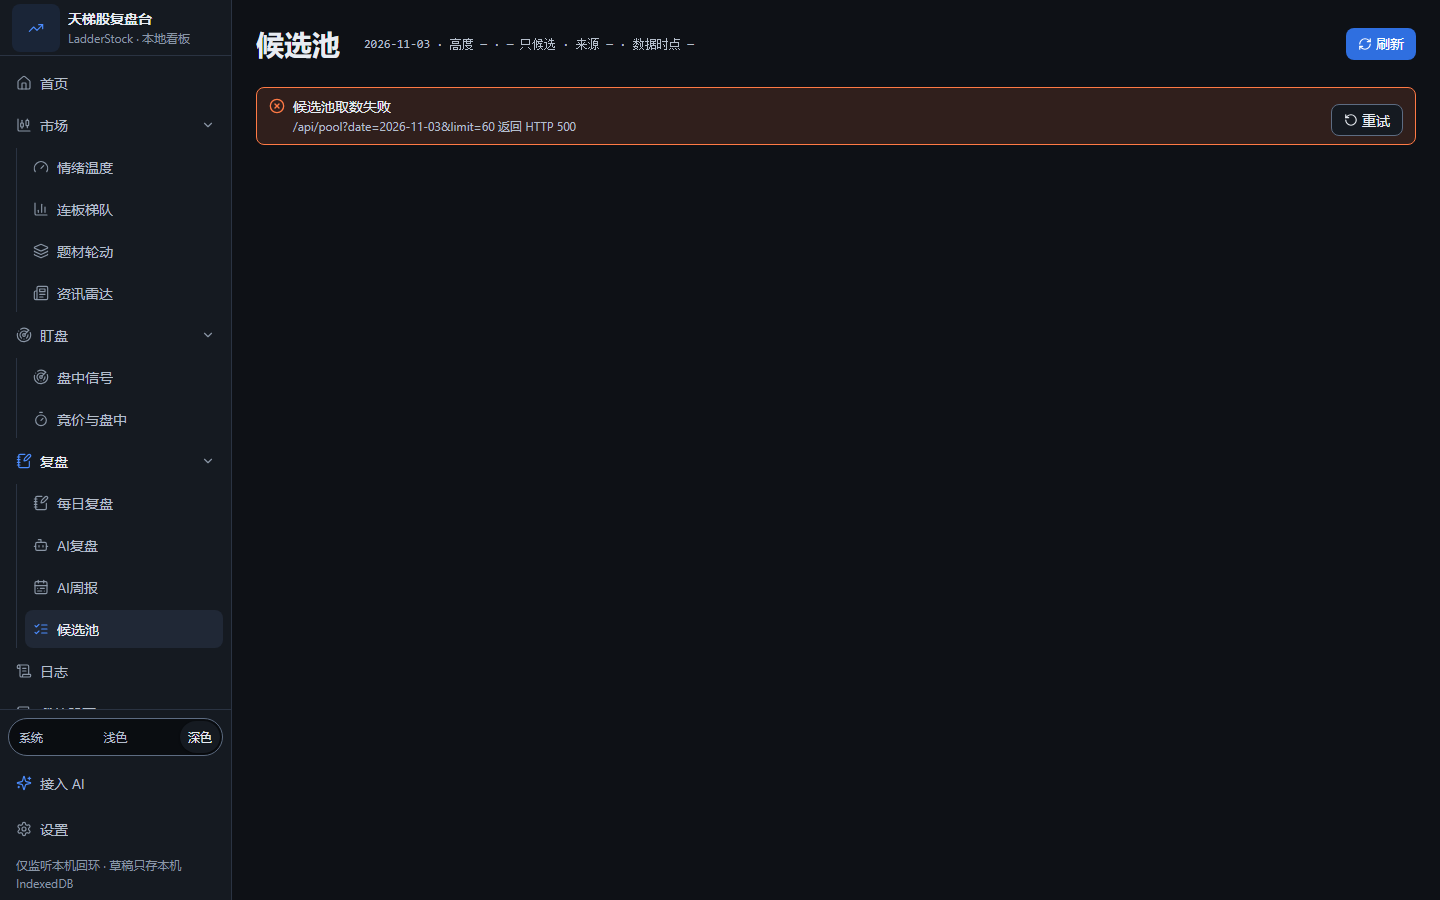
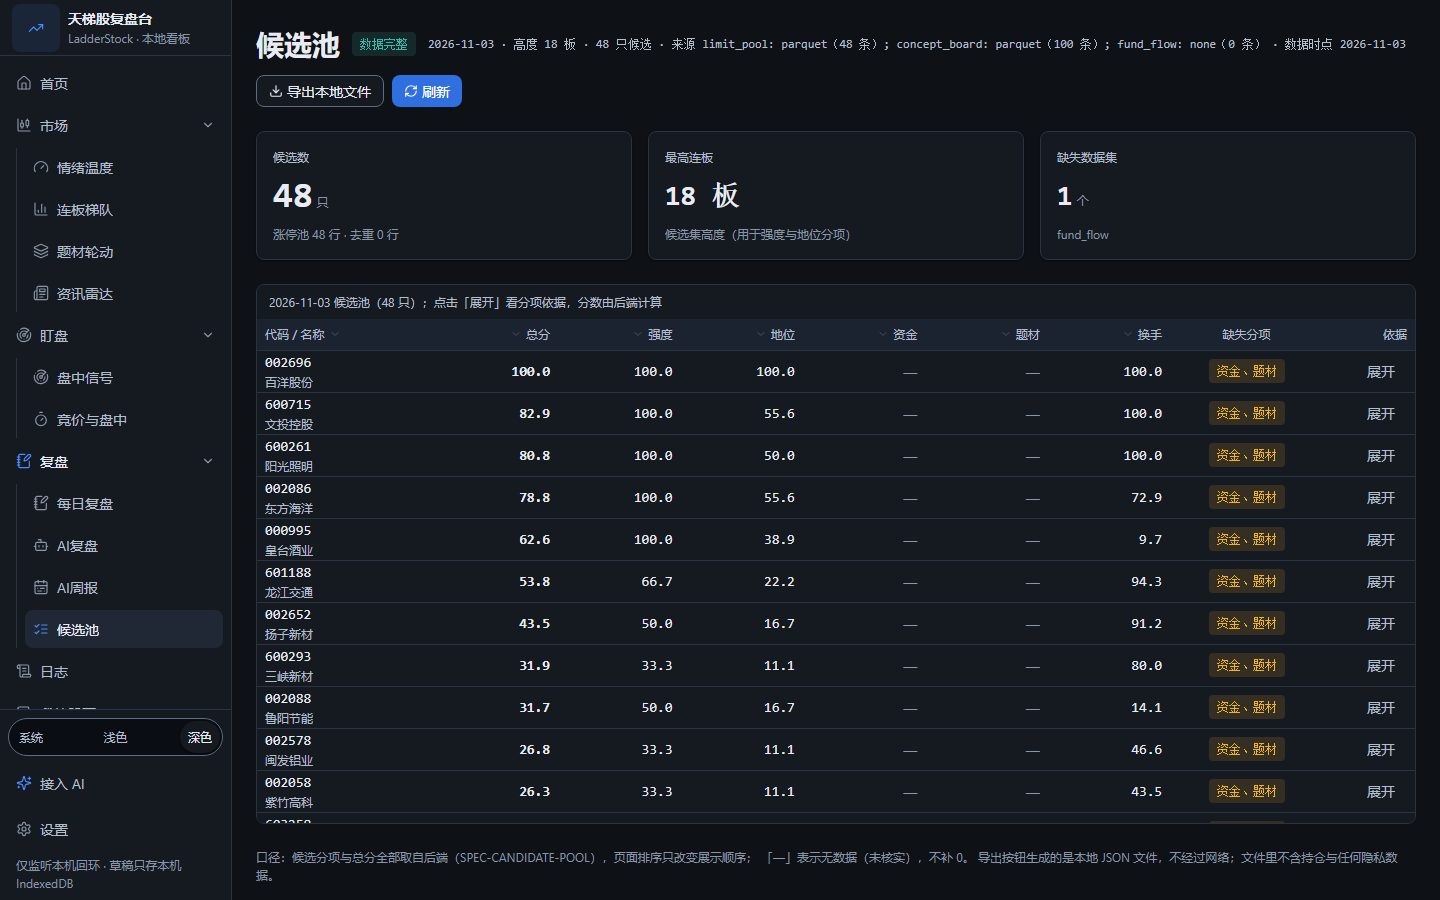
docs(decisions): DEC-046 落地 + 复盘三入口截图改取 5950 真实数据（QUOT-355 / QUOT-366）
收口审计要求「同步改 UI-SPEC + 一条 DEC」：实体决策文件写清三入口分工、
/review/ai 同族前缀取舍、导航唯一事实源在 NAV_SECTIONS（不新建第二个导航组件）、
旧「P1 留位不建入口」口径作废，以及 DEC-046 与三条未合并分支的撞号处理规则。
截图用 vite.shot.config.ts 代理本机 ldst run（5950）重拍，/review 与 /weekly 不再是取数失败态。

diff --git a/docs/decisions/DEC-046-review-nav-three-independent-entries.md b/docs/decisions/DEC-046-review-nav-three-independent-entries.md
@@ -1,0 +1,84 @@
+# DEC-046 复盘组拆三独立入口：每日复盘 / AI复盘 / AI周报，路由与侧栏同源注册
+
+- 日期：2026-11-03
+- 提出：老板（QUOT-344 拍板「不合并，单独导航」，对齐参考侧 `vibe-astock` 的三屏信息架构）
+- 状态：生效（导航与路由面已落地；`/review/ai` 正文结构归 QUOT-344-S2，不在本决策内）
+- 关联：QUOT-344、QUOT-355（本决策的 S1 实现单）、QUOT-149（周度复盘原始交付）、
+  QUOT-366（收口审计，本文件按其要求落地）、DEC-045（编号与变更记录规则）、DEC-044（导航分组先例）、
+  `frontend/src/routes.ts`、`frontend/src/App.tsx`、`frontend/src/components/Layout.tsx`、
+  `frontend/src/screens/AiReviewScreen.tsx`、`frontend/tests/nav-routes.test.tsx`、`docs/UI-SPEC.md` §0/§2/§3.7/§10
+
+## 1. 背景
+
+复盘组此前只有两条路径挂两个屏（`/review` 情绪复盘、`/weekly` 周度复盘）+ 候选池：当日五段数据与
+AI 生成段落挤在同一屏里，周度叙述又与每日叙述共用文案口径。老板 2026-11-02 拍板不做屏幕合并，
+拆成三个各自可达的入口。
+
+QUOT-366 收口审计同时暴露一个流程事实：S1 首轮把分支推到远端却没开 PR、没合 `main`，
+且 `Layout.tsx` 的注释仍写着「『每日复盘』是 P1 留位（🟡），本轮不建入口」——旧口径留在代码里，
+main 上检不出三入口。本决策把「三入口 + 三条路由 + 旧口径删除」写成可验收的条文。
+
+## 2. 决定
+
+1. **复盘组是三个数据入口 + 候选池，共四项**，顺序与标签固定：
+
+   | 入口 | 路由 | 屏 | 分工 |
+   |---|---|---|---|
+   | 每日复盘 | `/review` | `ReviewScreen` | 当日五段数据：情绪 / 资金 / 题材 / 龙虎榜 / 龙头，`?date=` |
+   | AI复盘 | `/review/ai` | `AiReviewScreen` | AI 生成段落与逐段状态、降级与失败段 |
+   | AI周报 | `/weekly` | `WeeklyScreen` | 按周聚合的事实包与叙述，`?week=YYYY-Www`，缺省本周 |
+   | 候选池 | `/pool` | `PoolScreen` | 复盘的产出，位置与文案不变 |
+
+2. **AI 复盘独立成屏，路由用同族前缀 `/review/ai`**，不用 `/ai-review`——后者破坏 `/review*` 的前缀语义，
+   也让「复盘家族」在路由表里散开。
+3. **路由与侧栏同源注册**：`routes.ts` 的 `ROUTE_PATHS` 是唯一路径清单，`App.tsx` 的
+   `ROUTE_ELEMENTS: Record<RoutePath, ReactElement>` 因类型系统强制「加路径必写组件」，
+   `Layout.tsx` 的 `NAV_SECTIONS` 是唯一入口清单，三者由 `nav-routes.test.tsx` 双向对齐。
+   导航注册的落点是 `NAV_SECTIONS`，不新增第二个导航组件。
+4. **不允许「两条路径指向同一个未拆分屏」成为终态**：S1 阶段 `/review/ai` 允许是占位壳
+   （导航与深链可用、正文不伪造、不从 `/api/review` 猜渲染），但必须是独立组件；
+   这条由测试读组件表断言，路径比对看不出同组件挂载。
+5. **高亮按 pathname 精确匹配**：`/review` 亮时 `/review/ai` 不跟着亮。
+6. **文案改动不连带改路由**：`/weekly` 只把侧栏标签从「周度复盘」改为「AI周报」，路由、深链、
+   后端契约零变更；屏内 `h1` 的口径归 S2。
+7. **旧口径删除**：`Layout.tsx` 中「『每日复盘』是 P1 留位（🟡），本轮不建入口」注释作废，
+   替换为三入口分工说明；`docs/UI-SPEC.md` 的屏数与导航顺序同步。
+8. **本轮不新增后端接口与字段**：AI 段落与数据段落同源，父单 QUOT-344 已判定无需后端改动。
+
+## 3. 备选与取舍
+
+| 方案 | 取舍 |
+|---|---|
+| `/review?tab=ai` 同屏切页签 | 与老板「单独导航」拍板相反，且 `/review` 会承载两屏内容，否决 |
+| `/ai-review` 平铺新路径 | 破坏 `/review*` 前缀语义，家族路径散开，否决 |
+| 两条路径挂同一个 `ReviewScreen`（仅导航拆） | 「拆了导航没拆屏」，用户点进去看到同一屏——正是本决策要防的退路，写成测试断言，否决 |
+| 新建 `ReviewNav.tsx` 承接三入口 | 导航唯一事实源已是 `Layout.tsx` 的 `NAV_SECTIONS`，第二处注册必然漂移（QUOT-366 检出的未跟踪文件就是这种漂移的产物），否决 |
+| 屏内内容重排一并放进 S1 | 一个 PR 改两屏，与 S2 冲突，否决（内容重排归 QUOT-344-S2） |
+
+## 4. 影响
+
+- 侧栏「复盘」组 3 项变 4 项，看板总屏数 19 → 20（`docs/UI-SPEC.md` §0 表新增第 20 行）。
+- `rail:`（1024–1279）档展平后图标行由 19 变 20；AI复盘取 `Bot`，不复用底部「接入 AI」的
+  `Sparkles`——该档只剩图标可辨，两个 Sparkles 分不开。
+- 深链新增一条：`/review/ai`。既有 `/review`、`/weekly`、`/pool` 的 URL、IndexedDB 键、后端端点零变更。
+- `docs/UI-SPEC.md` 变更记录按 DEC-045 §4 合并成 **v1.6 一条**覆盖整条 PR 链（S1+S2），不逐 PR 刷行。
+- **编号占用**：按 DEC-045 §1，本链开单时 `git ls-tree -r --name-only origin/main docs/decisions/`
+  扫到的最大号 = 045，取 046。本文件落地时 `main` 仍是 045；另有三条未合并分支
+  （QUOT-349 rate-limit、QUOT-347 schedule job、QUOT-290 连板键）各自也预占了 DEC-046。
+  按 DEC-045 §3，未合并分支上的 DEC 不算已占用，让号成本由零反向引用一方承担：
+  本文件与 `docs/UI-SPEC.md` v1.6、`nav-routes.test.tsx`、`AiReviewScreen.tsx` 四处互相引用，
+  合并时以**先合入 `main` 的一方保留 046**，其余按扫描时实号让号并在合并说明里标注引用方。
+- 回滚方式：还原 `Layout.tsx` 的 `NAV_SECTIONS` 单项、删 `routes.ts` 的 `/review/ai` 与
+  `App.tsx` 对应组件项、删除本文件与 v1.6 变更记录行；类型系统会拦住只删一半的中间态。
+
+## 5. 证据
+
+- `frontend/src/routes.ts`（`/review` `/review/ai` `/weekly` 三条路径与分工注释）
+- `frontend/src/App.tsx`（`ROUTE_ELEMENTS` 注册，`/review/ai` → `AiReviewScreen`）
+- `frontend/src/components/Layout.tsx`（`NAV_SECTIONS` review 组四项，旧「P1 留位」注释已删）
+- `frontend/src/screens/AiReviewScreen.tsx`（占位壳，正文待接入徽标 + 去每日复盘的出口）
+- `frontend/tests/nav-routes.test.tsx`（三入口顺序与文案、路径互不相同且各自深链命中、
+  `/review` 与 `/review/ai` 非同一组件）
+- `docs/UI-SPEC.md` §0（20 屏）、§2（外壳图与导航顺序）、§3.7（AI周报入口行）、§10（映射行）、变更记录 v1.6
+- 截图：`docs/screenshots/review-after-344-dark.png`、`review-ai-after-344-dark.png`、
+  `review-ai-after-344-1024-dark.png`、`weekly-after-344-dark.png`、`pool-after-344-dark.png`

diff --git a/docs/UI-SPEC.md b/docs/UI-SPEC.md
@@ -18,7 +18,7 @@
 | v1.3 | 2026-11-02 | QUOT-306 / QUOT-317 收口：一致性口径脚本化（`frontend/scripts/check-ui-consistency.mjs` + `npm run check:ui`，六项：裸表 / hex / 任意值 / 数值基线 / DataTable 引用 / 过渡时长）；`DataTable` 补整行 `summaryRow`（列级 `summary` 保留，二者互斥）；四处任意值收口为 `min-h-calendar-cell` / `min-w-table-min` 与 `truncate` 列；§0 表格「事件日历 / 我的持仓」的侧栏分组同步为「我的股票」（v1.2 遗漏）；编号与变更记录合并规则见 DEC-045。 |
 | v1.3.1 | 2026-11-02 | 外壳层 §2 逐条走查落地（QUOT-316，只动 `components/Layout.tsx` / `PageShell.tsx` / `PersistenceBanner.tsx`，`NAV_SECTIONS` 结构零变更）：① §2 提示条「同类最多 2 条 + 另有 N 条提示」此前无实现，`PersistenceBanner` 现按 tone 各截 2 条、余量并成一行且逐个列出分片名（折叠不丢信息），顶内距 `pt-3`→`pt-5` 与 `main` 的 `py-5` 对齐；② §11.0「数字必 `.ldst-num`」在页头不可达——`PageHeader` 的 subtitle / meta 由外壳统一挂 `.ldst-num`（只加可继承的 `font-variant-numeric`，字号与颜色仍归各屏），19 屏一次生效；页头换行纵向间距 12px→4px；③ §2 侧栏二级缩进 8px→16px（导引线落在一级图标正下方），`rail:` 档展平后加组间 1px 分隔线，否则 19 行同形图标无分组可读性；④ §2 阅读型内容度量：外壳自有的 `OfflineBanner` 说明段挂 `max-w-measure`（`--ldst-measure: 52ch`）；⑤ `Layout.tsx` 头注释的 `DESIGN-SPEC §3.1/§4.1` 假引用（M-9）改引 `UI-SPEC §2`；⑥ R-21 实测更正为「非缺陷」，见 §12.5。规范条文本身未放宽：以上都是代码向 §2 / §11.0 收敛。 |
 | v1.5 | 2026-11-02 | 新增「接入 AI」一等入口（QUOT-200）：侧栏底部（主题与设置之间）按钮 + 设置 → AI 接入顶部状态卡，打开右侧向导抽屉（`AiConnectDialog`）；提供 DeepSeek / 通义千问 / Kimi / MiniMax / 本机 Ollama / 自定义预置，测试连通性后写入 `config/ai.env`（`LDST_LLM_BASE_URL` / `LDST_LLM_MODEL` / `LDST_LLM_API_KEY`），密钥只写不读回。订阅版 CLI（Codex / Claude Code / WorkBuddy）当前后端未实现，不放入口。`?ai=1` 可直接打开抽屉（截图/排障）。 |
-| v1.6 | 2026-11-03 | 复盘组拆三独立入口（QUOT-344，决策 DEC-046；本链 S1+S2 合并成这一行，按 DEC-045 §4）。导航：`复盘` 组由「情绪复盘 / 周度复盘 / 候选池」改为 **每日复盘 `/review` · AI复盘 `/review/ai` · AI周报 `/weekly` · 候选池 `/pool`**——三屏同源不合并，`/weekly` 只改文案不改路由。路由新增 `/review/ai`（与 `/review` 同族前缀，不用 `/ai-review`）；`frontend/tests/nav-routes.test.tsx` 加三入口互不相同、各自深链可达、`/review` 与 `/review/ai` 不同组件的断言；`visual-shot.mjs` 记为第 20 屏。AI复盘的导航图标取 `Bot`，不复用底部「接入 AI」动作的 `Sparkles`——`rail:` 档只剩图标可辨，两个 Sparkles 分不开。**分工**：每日复盘 = 当日五段数据（情绪 / 资金 / 题材 / 龙虎榜 / 龙头），AI复盘 = AI 生成段落 + 降级/失败段，AI周报 = 按周聚合叙述。**本行只覆盖 S1 的导航与路由面**（§0 表行、§2 导航顺序与外壳图）；新屏的 §3 小节、§11 清单与 DEC-046 实体文件由 S2 在同一 PR 链落地，S1 阶段 `/review/ai` 是占位壳，不预测正文结构。 |
+| v1.6 | 2026-11-03 | 复盘组拆三独立入口（QUOT-344，决策 DEC-046；本链 S1+S2 合并成这一行，按 DEC-045 §4）。导航：`复盘` 组由「情绪复盘 / 周度复盘 / 候选池」改为 **每日复盘 `/review` · AI复盘 `/review/ai` · AI周报 `/weekly` · 候选池 `/pool`**——三屏同源不合并，`/weekly` 只改文案不改路由。路由新增 `/review/ai`（与 `/review` 同族前缀，不用 `/ai-review`）；`frontend/tests/nav-routes.test.tsx` 加三入口互不相同、各自深链可达、`/review` 与 `/review/ai` 不同组件的断言；`visual-shot.mjs` 记为第 20 屏。AI复盘的导航图标取 `Bot`，不复用底部「接入 AI」动作的 `Sparkles`——`rail:` 档只剩图标可辨，两个 Sparkles 分不开。**分工**：每日复盘 = 当日五段数据（情绪 / 资金 / 题材 / 龙虎榜 / 龙头），AI复盘 = AI 生成段落 + 降级/失败段，AI周报 = 按周聚合叙述。**本行只覆盖 S1 的导航与路由面**（§0 表行、§2 导航顺序与外壳图）；DEC-046 实体文件随 S1 落地（QUOT-366 收口审计要求），新屏的 §3 小节与 §11 清单由 S2 在同一 PR 链补齐——S1 阶段 `/review/ai` 是占位壳，不预测正文结构。 |
 | v1.4 | 2026-11-02 | 设置页新增「数据来源 → 虚拟数据（演示）」开关（QUOT-200 提速项）：演示源从单一 URL 入口扩为「URL `?demo=1` 或设置开关」二选一，偏好持久化到 `localStorage['ldst.demo-data']`；判定仍唯一收口在 `lib/pageState.ts` 的 `useDemoEnabled`。§5.6 补两条：徽标按来源区分文案；关闭开关时同时摘掉 URL 的 `demo`，保证「关 = 真实数据」。新增 `--demo-pref` 截图开关，取证不依赖 URL。 |
 
 ## 0. 范围与非目标
